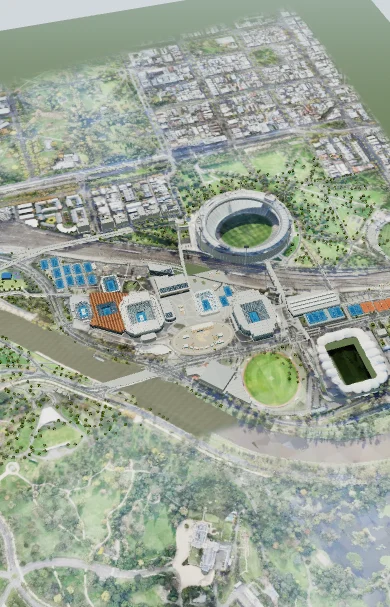
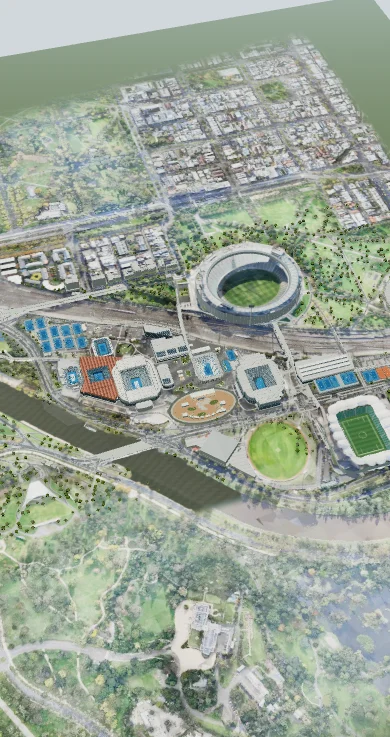
Reconstruct the Kia Arena terrace and railway edge

diff --git a/site/components/arena1573/PrecinctAssets.tsx b/site/components/arena1573/PrecinctAssets.tsx
@@ -4,6 +4,35 @@ import * as T from 'three';
 import { GLTFLoader } from 'three/examples/jsm/loaders/GLTFLoader.js';
 import { disposeModel } from './model';
 
+// The Blender shell shares a material across the canopy, facade and concrete
+// seating tiers. Apply the ribbed aluminium and entrance glazing to the exterior.
+function finishKia(material:T.MeshStandardMaterial){
+  if(material.name!=='Pale concrete')return;
+  material.onBeforeCompile=shader=>{
+    shader.vertexShader='varying vec3 kiaP,kiaN;\n'+shader.vertexShader.replace('#include <begin_vertex>','#include <begin_vertex>\n kiaP=position;kiaN=normal;');
+    shader.fragmentShader='varying vec3 kiaP,kiaN;\n'+shader.fragmentShader.replace('#include <color_fragment>',`
+      #include <color_fragment>
+      vec2 q=kiaP.xz-vec2(344.8375,78.58);
+      float run=(atan(q.y,q.x)+3.14159265)*39.;
+      float outside=step(.52,dot(normalize(q),normalize(kiaN.xz+vec2(.00001))))*(1.-smoothstep(.15,.65,abs(kiaN.y)));
+      float period=run/.23;
+      float rib=.5+.5*cos(6.2831853*period);
+      rib=mix(rib,.5,smoothstep(.12,.75,fwidth(period)));
+      vec3 metal=vec3(.28,.318,.295)*(.83+.28*rib);
+      float portal=1.-smoothstep(.27,.34,abs(fract(run/6.1)-.5));
+      float mullion=1.-smoothstep(.02,.06+fwidth(run)*.3,abs(fract(run/1.43)-.5));
+      vec3 glazing=mix(vec3(.031,.062,.077),vec3(.095,.145,.16),.5+.5*sin(run*.045+kiaP.y*.63));
+      glazing=mix(glazing,vec3(.23,.26,.25),mullion*.8);
+      vec3 plinth=mix(vec3(.41,.43,.40),glazing,portal);
+      vec3 elevation=mix(plinth,metal,smoothstep(3.82,3.96,kiaP.y));
+      diffuseColor.rgb=mix(diffuseColor.rgb,elevation,outside);
+      float crown=smoothstep(13.27,13.9,kiaP.y)*smoothstep(.6,.92,abs(kiaN.y));
+      diffuseColor.rgb=mix(diffuseColor.rgb,vec3(.43,.456,.428)*(.91+.12*rib),crown);
+    `);
+  };
+  material.customProgramCacheKey=()=>'kia-aluminium';
+}
+
 // Optional architectural detail: a failed asset never takes down the arena.
 export default function PrecinctAssets({visible}:{visible:boolean}) {
   const [model,setModel]=useState<T.Group|null>(null);
@@ -12,7 +41,10 @@ export default function PrecinctAssets({visible}:{visible:boolean}) {
     new GLTFLoader().load('/models/precinct/ao-precinct.glb',gltf=>{
       if(disposed){disposeModel(gltf.scene);return;}
       loaded=gltf.scene;
-      loaded.traverse(o=>{if(o instanceof T.Mesh){o.castShadow=true;o.receiveShadow=true;}});
+      loaded.traverse(o=>{if(o instanceof T.Mesh){
+        o.castShadow=true;o.receiveShadow=true;
+        for(const material of Array.isArray(o.material)?o.material:[o.material])if(material instanceof T.MeshStandardMaterial)finishKia(material);
+      }});
       setModel(loaded);
     },undefined,()=>{/* The mapped courts remain available without the detail. */});
     return()=>{disposed=true;if(loaded)disposeModel(loaded);};

diff --git a/site/components/arena1573/PrecinctLandscape.ts b/site/components/arena1573/PrecinctLandscape.ts
@@ -65,7 +65,23 @@ export function addGroundPhotography(root:T.Group, invalidate:()=>void) {
         vec2 centralEdge=min(orthoPosition-vec2(217.,17.),vec2(407.,147.)-orthoPosition);
         float terrace=smoothstep(-2.,7.,min(centralEdge.x,centralEdge.y));
         float coverage=mix(${contribution.toFixed(2)}*mix(${base?'.71':'.25'},1.,distanceBlend),.965,terrace);
-        diffuseColor.rgb=mix(diffuseColor.rgb,photo.rgb*mix(1.25,1.05,terrace),orthoReady*fade*photo.a*coverage);`);
+        diffuseColor.rgb=mix(diffuseColor.rgb,photo.rgb*mix(1.25,1.05,terrace),orthoReady*fade*photo.a*coverage);
+        ${['ground-#b8bcb8','ground-#c8cac4'].includes(o.name)?`
+        // Resolve individual stone setts at walking height, where the half-
+        // metre aerial texels can no longer describe the bond and joints.
+        vec2 stone=mat2(.915,-.404,.404,.915)*orthoPosition;
+        stone/=vec2(.72,.49);stone.x+=.5*mod(floor(stone.y),2.);
+        vec2 index=floor(stone);
+        float seed=fract(sin(dot(index,vec2(127.1,311.7)))*43758.55);
+        float drift=.5+.5*sin(orthoPosition.x*.095+orthoPosition.y*.16);
+        vec3 setts=mix(vec3(.058,.067,.072),vec3(.116,.126,.128),seed);
+        setts=mix(setts,vec3(.28,.30,.295),1.-step(.10+.09*drift,seed));
+        setts=mix(setts,vec3(.49,.50,.46),1.-step(.03+.038*drift,seed));
+        vec2 widths=max(fwidth(stone),vec2(.001)),joint=min(fract(stone),1.-fract(stone));
+        float grout=max(1.-smoothstep(.004,.012+widths.x*.5,joint.x),1.-smoothstep(.004,.012+widths.y*.5,joint.y));
+        setts*=1.-grout*.19;
+        float nearStone=1.-smoothstep(32.,105.,length(vec3(cameraPosition.x-orthoPosition.x,cameraPosition.y,cameraPosition.z-orthoPosition.y)));
+        diffuseColor.rgb=mix(diffuseColor.rgb,setts,terrace*photo.a*nearStone*orthoReady);`:''}`);
     };
     material.customProgramCacheKey=()=>key+'-melbourne-ground-'+contribution;
     material.needsUpdate=true;

diff --git a/site/components/arena1573/CentralTerrace.ts b/site/components/arena1573/CentralTerrace.ts
@@ -51,7 +51,24 @@ export function buildCentralTerrace(plan:TerracePlan) {
     const head=new T.BoxGeometry(.68,.12,.36);head.translate(x+.22,5.28,z);add('iron',head);
     const lens=new T.BoxGeometry(.48,.04,.27);lens.translate(x+.26,5.20,z);add('limestone',lens);
   }
-  const finishes:Record<string,string>={limestone:'#d5d4c6',edge:'#969988',grass:'#6e8850',iron:'#424d4b',metal:'#82908b',timber:'#a48968'};
+  // Two demountable white pavilions on the service apron appear in the
+  // tournament aerial. Retain an open lane between the buildings and the yard.
+  for(const [x,z,length,depth,bays] of [[348,11,51,14,10],[325,-12,15,8,3]]){
+    const width=length/bays,eave=3.65,peak=eave+depth*.14;
+    const body=new T.BoxGeometry(length-.3,eave,depth-.4);body.translate(x,eave/2,z);add('panels',body);
+    for(let k=0;k<bays;k++){
+      const u=x-length/2+(k+.5)*width;
+      for(const side of [-1,1]){
+        const g=new T.BoxGeometry(width-.028,.11,Math.hypot(depth/2,peak-eave));
+        g.rotateX(side*Math.atan2(peak-eave,depth/2));g.translate(u,(peak+eave)/2,z+side*depth/4);add('fabric',g);
+        const post=new T.BoxGeometry(.1,eave,.14);post.translate(u-width/2,eave/2,z+side*depth/2);add('metal',post);
+      }
+      if(k%3===1){
+        const doors=new T.BoxGeometry(width*.69,2.5,.08);doors.translate(u,1.27,z+depth/2-.13);add('iron',doors);
+      }
+    }
+  }
+  const finishes:Record<string,string>={limestone:'#d5d4c6',edge:'#969988',grass:'#6e8850',iron:'#424d4b',metal:'#82908b',timber:'#a48968',fabric:'#d9dfdd',panels:'#c0ceca'};
   for(const [finish,pieces] of parts){
     const geometry=mergeGeometries(pieces)!;pieces.forEach(piece=>piece.dispose());
     const material=finish==='grass'?pavingMaterial(finishes.grass,geometry,'lawn'):new T.MeshStandardMaterial({color:finishes[finish],roughness:.84});

diff --git a/site/components/arena1573/eventLayout.ts b/site/components/arena1573/eventLayout.ts
@@ -35,7 +35,9 @@ export function eventLayout(data:ContextData):EventPocket[]{
     const width=f.kind==='rail'?4:routeFinish(f)?.width??f.width;
     return f.points.slice(1).map((b,i)=>({a:f.points[i],b,width}));
   });
-  const zones=[{name:'West walk',x:-73,z:-202,nx:30,nz:46},{name:'Arena walk',x:212,z:-25,nx:36,nz:37},{name:'East walk',x:590,z:158,nx:41,nz:15}];
+  // The central terrace has its own mapped tournament installations. The
+  // triangular area on its northern side is the railway yard and service apron.
+  const zones=[{name:'West walk',x:-73,z:-202,nx:30,nz:46},{name:'East walk',x:590,z:158,nx:41,nz:15}];
   const selected:EventPocket[]=[];
   for(const zone of zones){
     // Larger social pockets first, then smaller lawn islands in the remaining space.

diff --git a/scripts/prepare-melbourne-ground.py b/scripts/prepare-melbourne-ground.py
@@ -71,6 +71,9 @@ ground=np.clip(ground*(1-water*.93)+water_tone*water*.93,0,255).astype(np.uint8)
 opacity = np.full((height,width), 255, dtype=np.uint8)
 works=np.zeros_like(opacity)
 polygon(works, [(209,-38),(316,-42),(361,-18),(420,14),(445,98),(393,148),(324,151),(270,130),(223,105),(219,30)], 255)
+rail_edge=np.array([(195,-145),(265,-91),(339,-35),(393,6),(436,32),(505,82)])
+rail_zone=[*rail_edge.tolist(),[505,-195],[195,-195]]
+polygon(works,rail_zone,0)
 for railway in (f for f in context["features"] if f["kind"]=="rail"):
     cv2.polylines(works,[np.asarray([pixel(*p) for p in railway["points"]],np.int32)],False,0,round(scale*8))
 
@@ -91,10 +94,12 @@ band=.5+.5*np.sin(wx*.095+wz*.16+.7*np.sin(wz*.12))
 paver=68+15*band+16*block+6*rng.random((h,w))
 paver+=np.where(block<.12+.13*band,49,0)+np.where(block<.035+.065*band,38,0)
 new_ground=np.stack([paver+5,paver+4,paver+2],axis=2)
+apron=wz<np.maximum(20,np.interp(wx,rail_edge[:,0],rail_edge[:,1])+10)
+asphalt=79+6*rng.random((h,w))+4*np.sin(wx*.12+wz*.017)
+new_ground[apron]=np.stack([asphalt+4,asphalt+3,asphalt],axis=2)[apron]
 beds=np.zeros_like(opacity)
 for outline in [
     [(259,23),(276,27),(277,41),(265,38)],[(282,23),(312,23),(307,39),(282,48)],
-    [(318,10),(355,10),(365,25),(330,24),(319,29)],
     [(260,58),(278,54),(276,96),(261,98)],[(288,65),(299,68),(298,85),(286,87)],
     [(314,126),(346,130),(377,113),(374,136),(358,145),(329,138)],
     [(385,55),(392,43),(396,94),(387,102)],[(270,110),(289,110),(316,133),(302,135)],
